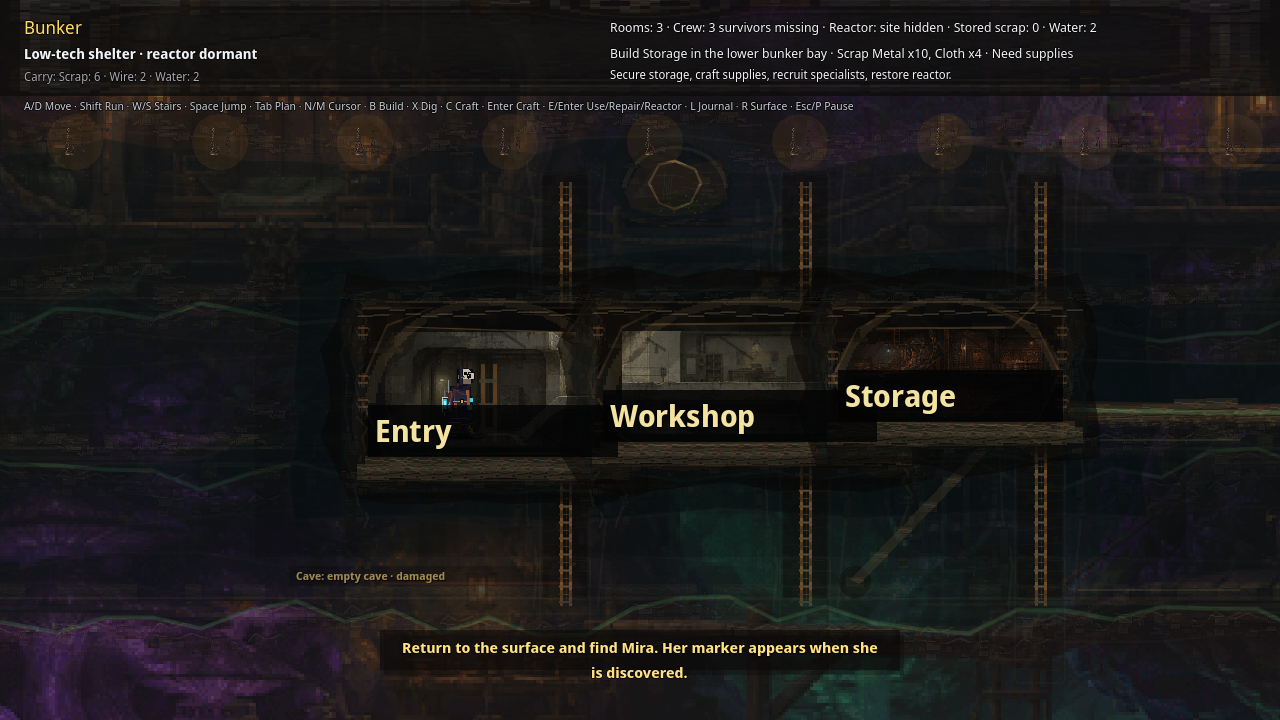
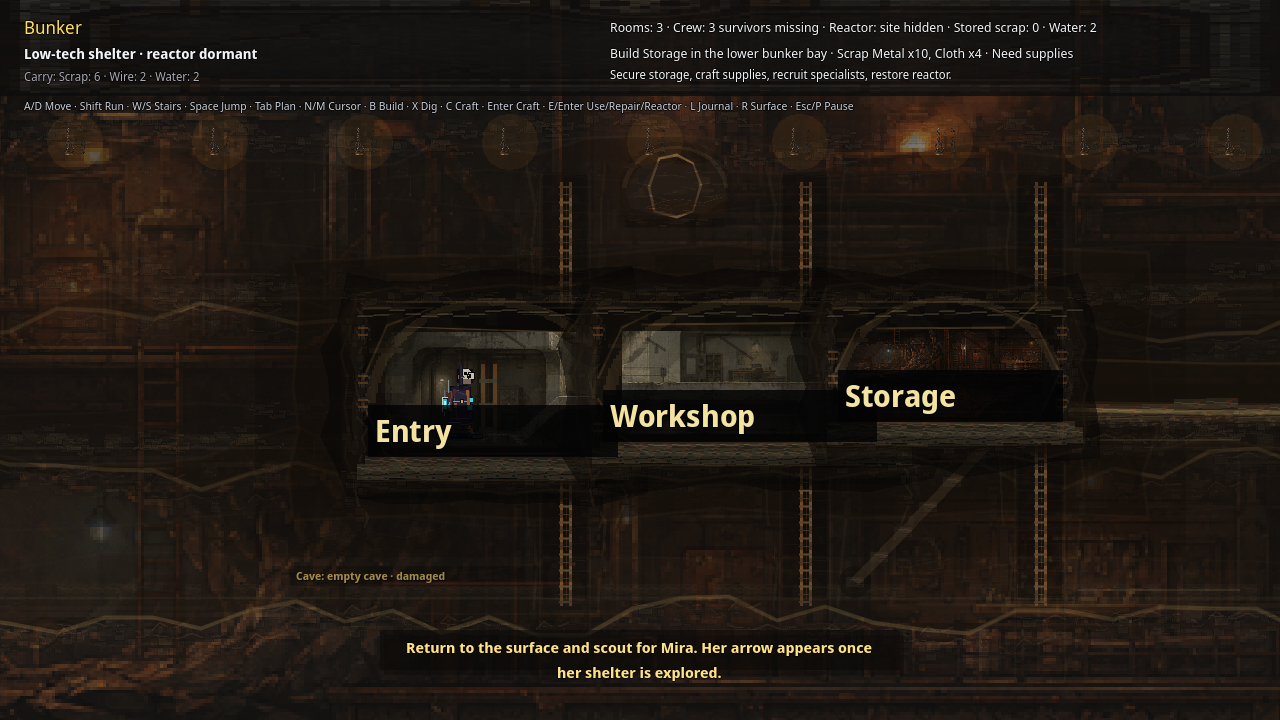
Refresh current save continue proof

diff --git a/docs/index.html b/docs/index.html
@@ -76,7 +76,7 @@
     <p><a href="https://github.com/elias-leslie/the-aftertimes-support/blob/main/REALM1_PUBLIC_RELEASE_SURFACE_MOVEMENT_SMOKE.md">Open public release surface-movement smoke proof</a> · screenshot SHA256: <code>1becc44db18840c4fb23e72e92d0d0cb6b441499d6ab028d0e13f15186874b11</code></p>
     <img src="https://raw.githubusercontent.com/elias-leslie/the-aftertimes-support/main/public-release-surface-movement-ui-smoke.png" alt="The AfterTimes public release surface-movement UI smoke proof showing player moved away from the bunker on the top-down surface with HUD still visible">
     <h2 id="public-save-continue-smoke">Public release save/continue smoke</h2>
-    <p><a href="https://github.com/elias-leslie/the-aftertimes-support/blob/main/REALM1_PUBLIC_RELEASE_SAVE_CONTINUE_SMOKE.md">Open public release save/continue smoke proof</a> · screenshot SHA256: <code>7016dafec7e0d96c7ccddf37756bafb15d2977738fe8ed2835fd10f47386e1fd</code></p>
+    <p><a href="https://github.com/elias-leslie/the-aftertimes-support/blob/main/REALM1_PUBLIC_RELEASE_SAVE_CONTINUE_SMOKE.md">Open public release save/continue smoke proof</a> · screenshot SHA256: <code>a13b9790abad2af75a1b4f56797771ab6e1ea02dc6b938266efbc682fdf8f264</code></p>
     <img src="https://raw.githubusercontent.com/elias-leslie/the-aftertimes-support/main/public-release-save-continue-smoke.png" alt="The AfterTimes public release save and continue smoke proof showing the loaded bunker with Entry, Workshop, and Storage after Continue">
     <h2 id="screenshots">Current screenshot contact sheet</h2>
     <p><a href="https://github.com/elias-leslie/the-aftertimes-support/blob/main/launch-screenshots-v2-contact.png">Open full-size launch screenshot contact sheet</a> · SHA256: <code>c9ca6eca793903762aea5cc100bab419392278513c68ba550d6665912bfb8eb6</code></p>
@@ -89,7 +89,7 @@
     <img src="https://raw.githubusercontent.com/elias-leslie/the-aftertimes-support/main/steam-capsule-family-v1-proof.png" alt="The AfterTimes Steam and itch capsule/key-art family proof showing header, small, main, vertical, library capsule, itch cover, library hero crop, and transparent library logo">
     <h2 id="art-audio">Current art/audio review packet</h2>
     <p><a href="https://github.com/elias-leslie/the-aftertimes-support/blob/main/REALM1_ART_AUDIO_REVIEW_PACKET.md">Open public art / audio review packet</a> for current visual, motion, waveform, and audio-identity proof links.</p>
-    <p><a href="https://github.com/elias-leslie/the-aftertimes-support/blob/main/public-release-save-continue-smoke.png">Open current public-package runtime visual smoke</a> · SHA256: <code>7016dafec7e0d96c7ccddf37756bafb15d2977738fe8ed2835fd10f47386e1fd</code></p>
+    <p><a href="https://github.com/elias-leslie/the-aftertimes-support/blob/main/public-release-save-continue-smoke.png">Open current public-package runtime visual smoke</a> · SHA256: <code>a13b9790abad2af75a1b4f56797771ab6e1ea02dc6b938266efbc682fdf8f264</code></p>
     <img src="https://raw.githubusercontent.com/elias-leslie/the-aftertimes-support/main/public-release-save-continue-smoke.png" alt="The AfterTimes current public package runtime bunker visual smoke showing Entry, Workshop, Storage, HUD, and cave backdrop">
     <p><a href="https://github.com/elias-leslie/the-aftertimes-support/blob/main/player-side-walk-v5-public-proof.png">Open player side-walk v5 proof sheet</a> · SHA256: <code>37216b44e9c647ce266da4329944b8e1a73801e4020d822a2d951ff38f26c8b8</code></p>
     <img src="https://raw.githubusercontent.com/elias-leslie/the-aftertimes-support/main/player-side-walk-v5-public-proof.png" alt="Review-only player bunker side-walk v5 full-loop continuity proof sheet">

diff --git a/REALM1_PUBLIC_RELEASE_SAVE_CONTINUE_SMOKE.md b/REALM1_PUBLIC_RELEASE_SAVE_CONTINUE_SMOKE.md
@@ -2,18 +2,18 @@
 
 Status: public release save/continue UI smoke proof. This does **not** replace external unaided QA, art/audio review, or legal/store approval.
 
-Verified on 2026-07-03 from the public support-repo release zip after redownload and SHA check:
+Verified on 2026-07-04 from the public support-repo release zip after redownload and SHA check:
 
 - Release: <https://github.com/elias-leslie/the-aftertimes-support/releases/tag/realm1-review-a5392e7c>
 - Asset: <https://github.com/elias-leslie/the-aftertimes-support/releases/download/realm1-review-a5392e7c/the-aftertimes-realm1-linux-a5392e7c.zip>
[8 lines of base64/hex data omitted]
 - Loaded-bunker screenshot: <https://github.com/elias-leslie/the-aftertimes-support/blob/main/public-release-save-continue-smoke.png>
[2 lines of base64/hex data omitted]
 - Save-file check: `save_autosave.json` existed in a fresh temp profile, realm was `aftertimes`, and saved base rooms were `entry,workshop,storage`.
 - Runtime mode: launched the extracted public Linux executable under Xvfb at 1280x720 from a fresh temp profile, used keyboard input to reach playable bunker UI, built Storage with `B`, opened pause, selected **Save Shelter Record**, quit to title, selected **Continue**, and captured the loaded bunker state.
 

diff --git a/README.md b/README.md
@@ -29,7 +29,7 @@ Current public review build:
 - Public launch screenshot contact sheet: <https://github.com/elias-leslie/the-aftertimes-support/blob/main/launch-screenshots-v2-contact.png>
 - Public capsule/key-art family proof: <https://github.com/elias-leslie/the-aftertimes-support/blob/main/steam-capsule-family-v1-proof.png>
 - Public art / audio review packet: <https://github.com/elias-leslie/the-aftertimes-support/blob/main/REALM1_ART_AUDIO_REVIEW_PACKET.md>
[2 lines of base64/hex data omitted]
 - Public store copy draft: <https://github.com/elias-leslie/the-aftertimes-support/blob/main/REALM1_STORE_DRAFT.md>
 - Public release scope / deferral review: <https://github.com/elias-leslie/the-aftertimes-support/blob/main/REALM1_RELEASE_SCOPE_DEFERRALS.md>
 - Public Credits / Licenses proof: <https://github.com/elias-leslie/the-aftertimes-support/blob/main/REALM1_CREDITS_LICENSES_PROOF.md>

diff --git a/REALM1_ART_AUDIO_REVIEW_PACKET.md b/REALM1_ART_AUDIO_REVIEW_PACKET.md
@@ -27,7 +27,7 @@ Review the running Linux build first, then use these public artifacts for still-
 Use this current public package screenshot to judge in-build bunker readability/art at gameplay scale before opening separate proof sheets.
 
 - Runtime visual smoke: <https://github.com/elias-leslie/the-aftertimes-support/blob/main/public-release-save-continue-smoke.png>
[2 lines of base64/hex data omitted]
 - Runtime path: redownloaded `realm1-review-a5392e7c`, built Storage through player-facing input, saved, quit to title, and used Continue back into the bunker.
 - What it shows: current package bunker art at gameplay scale with `Entry`, `Workshop`, `Storage`, HUD, cave backdrop, and tutorial prompt visible.
 